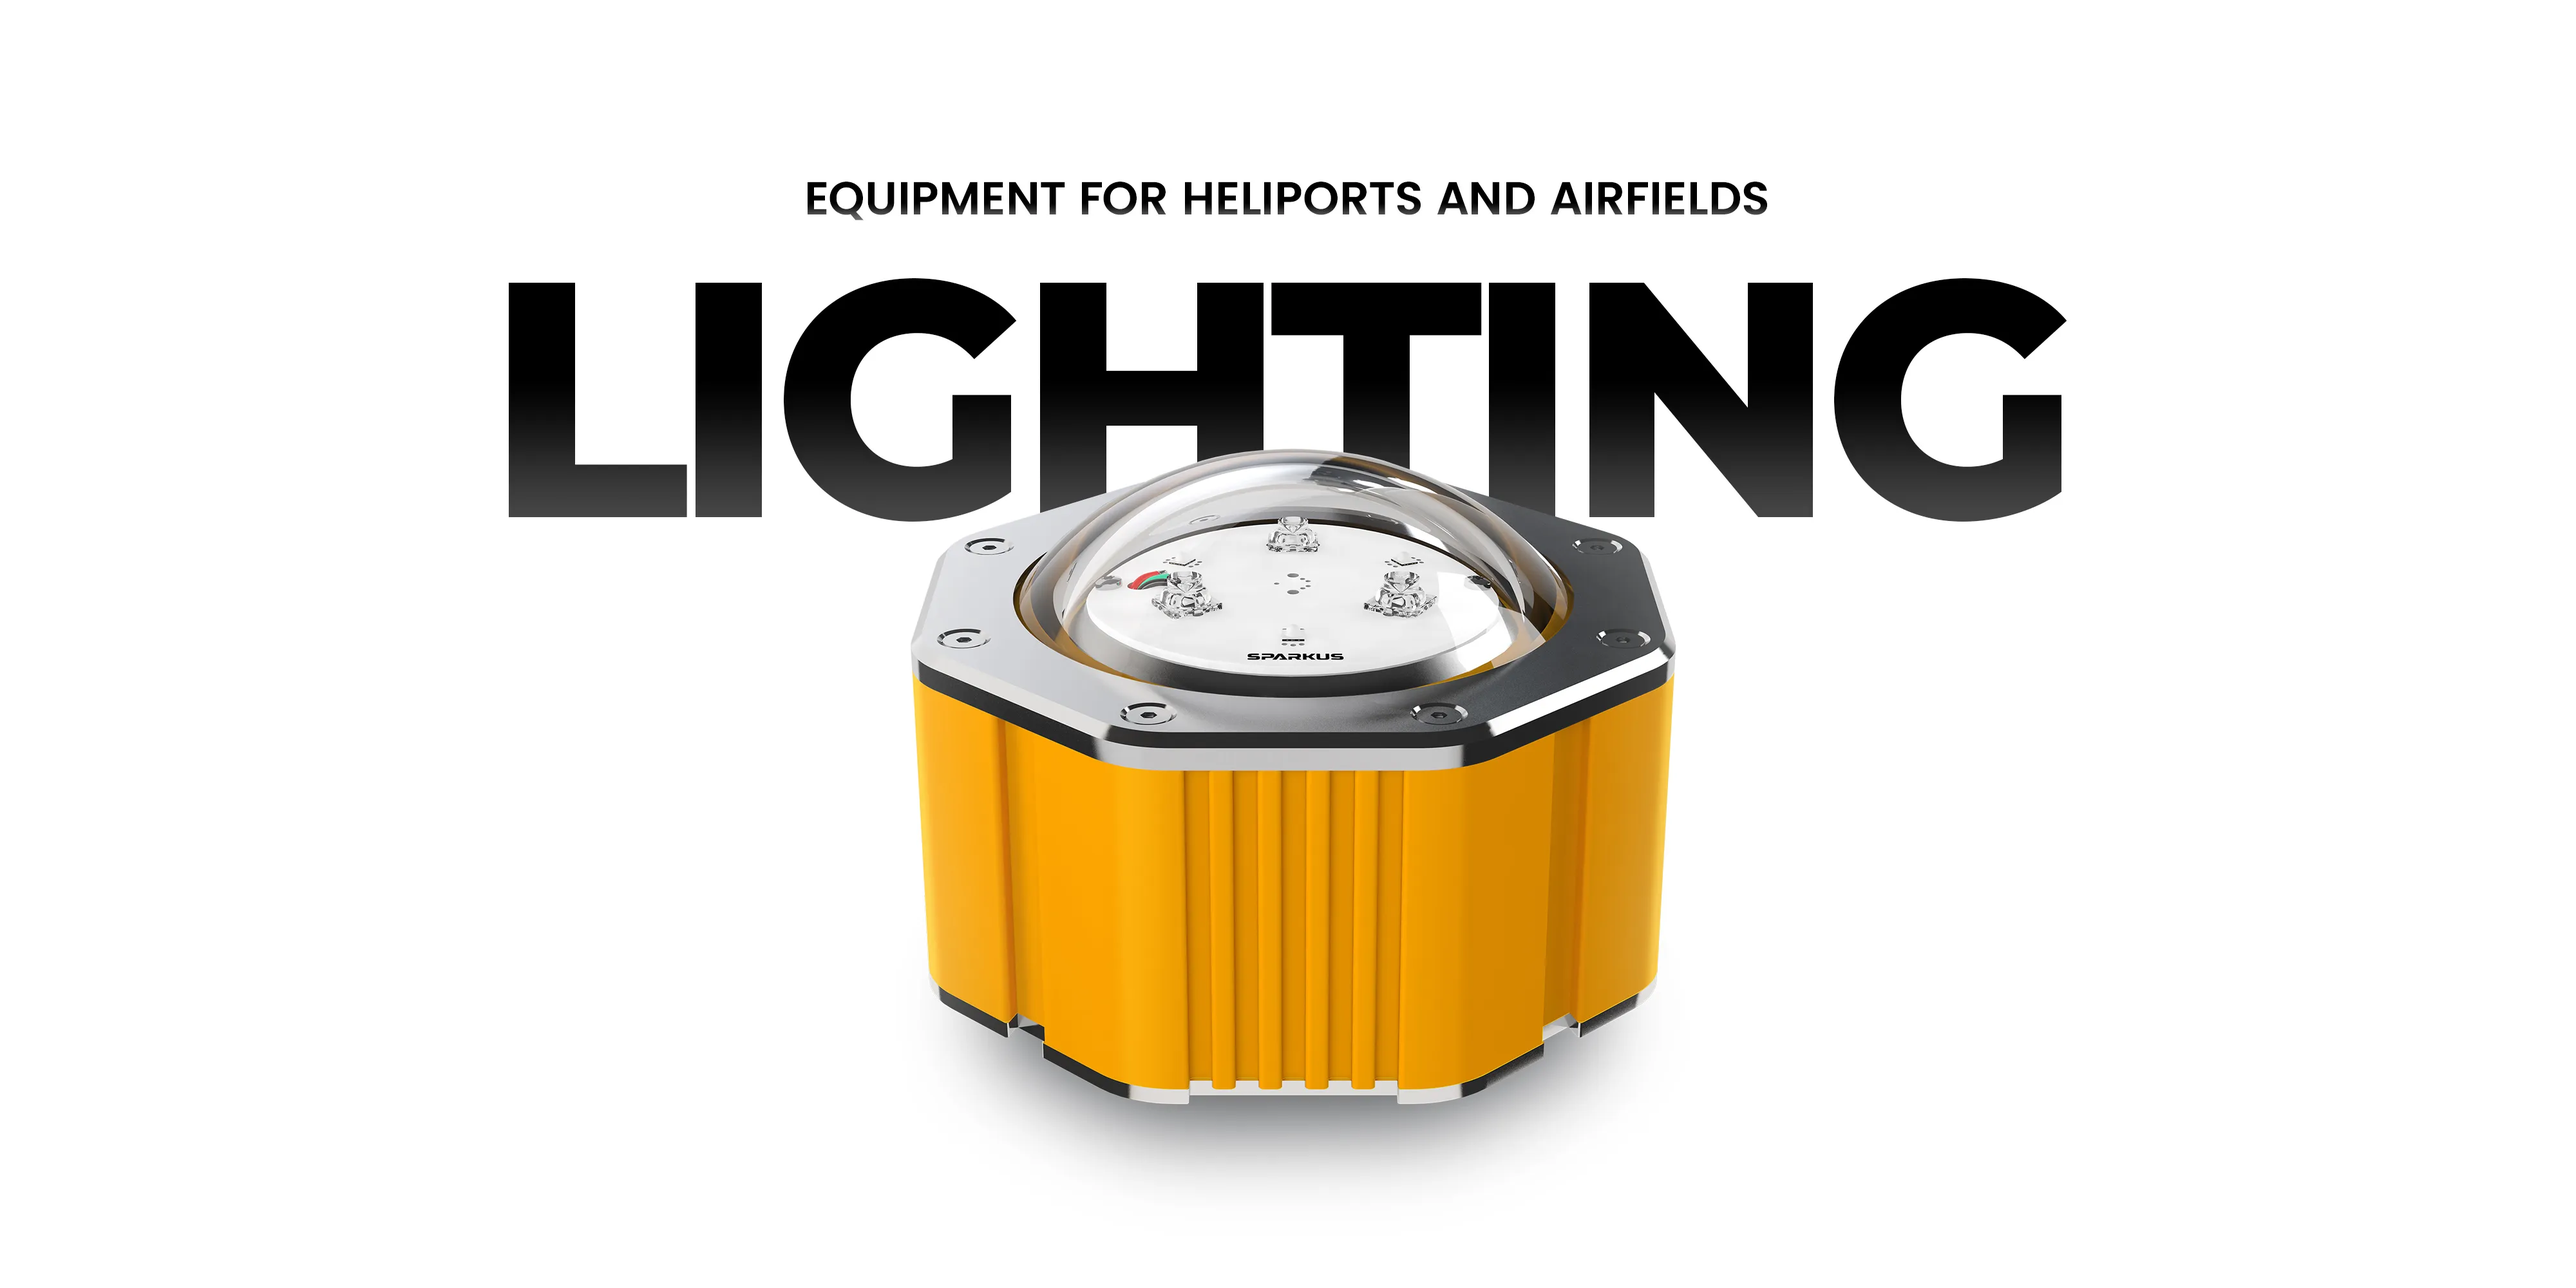
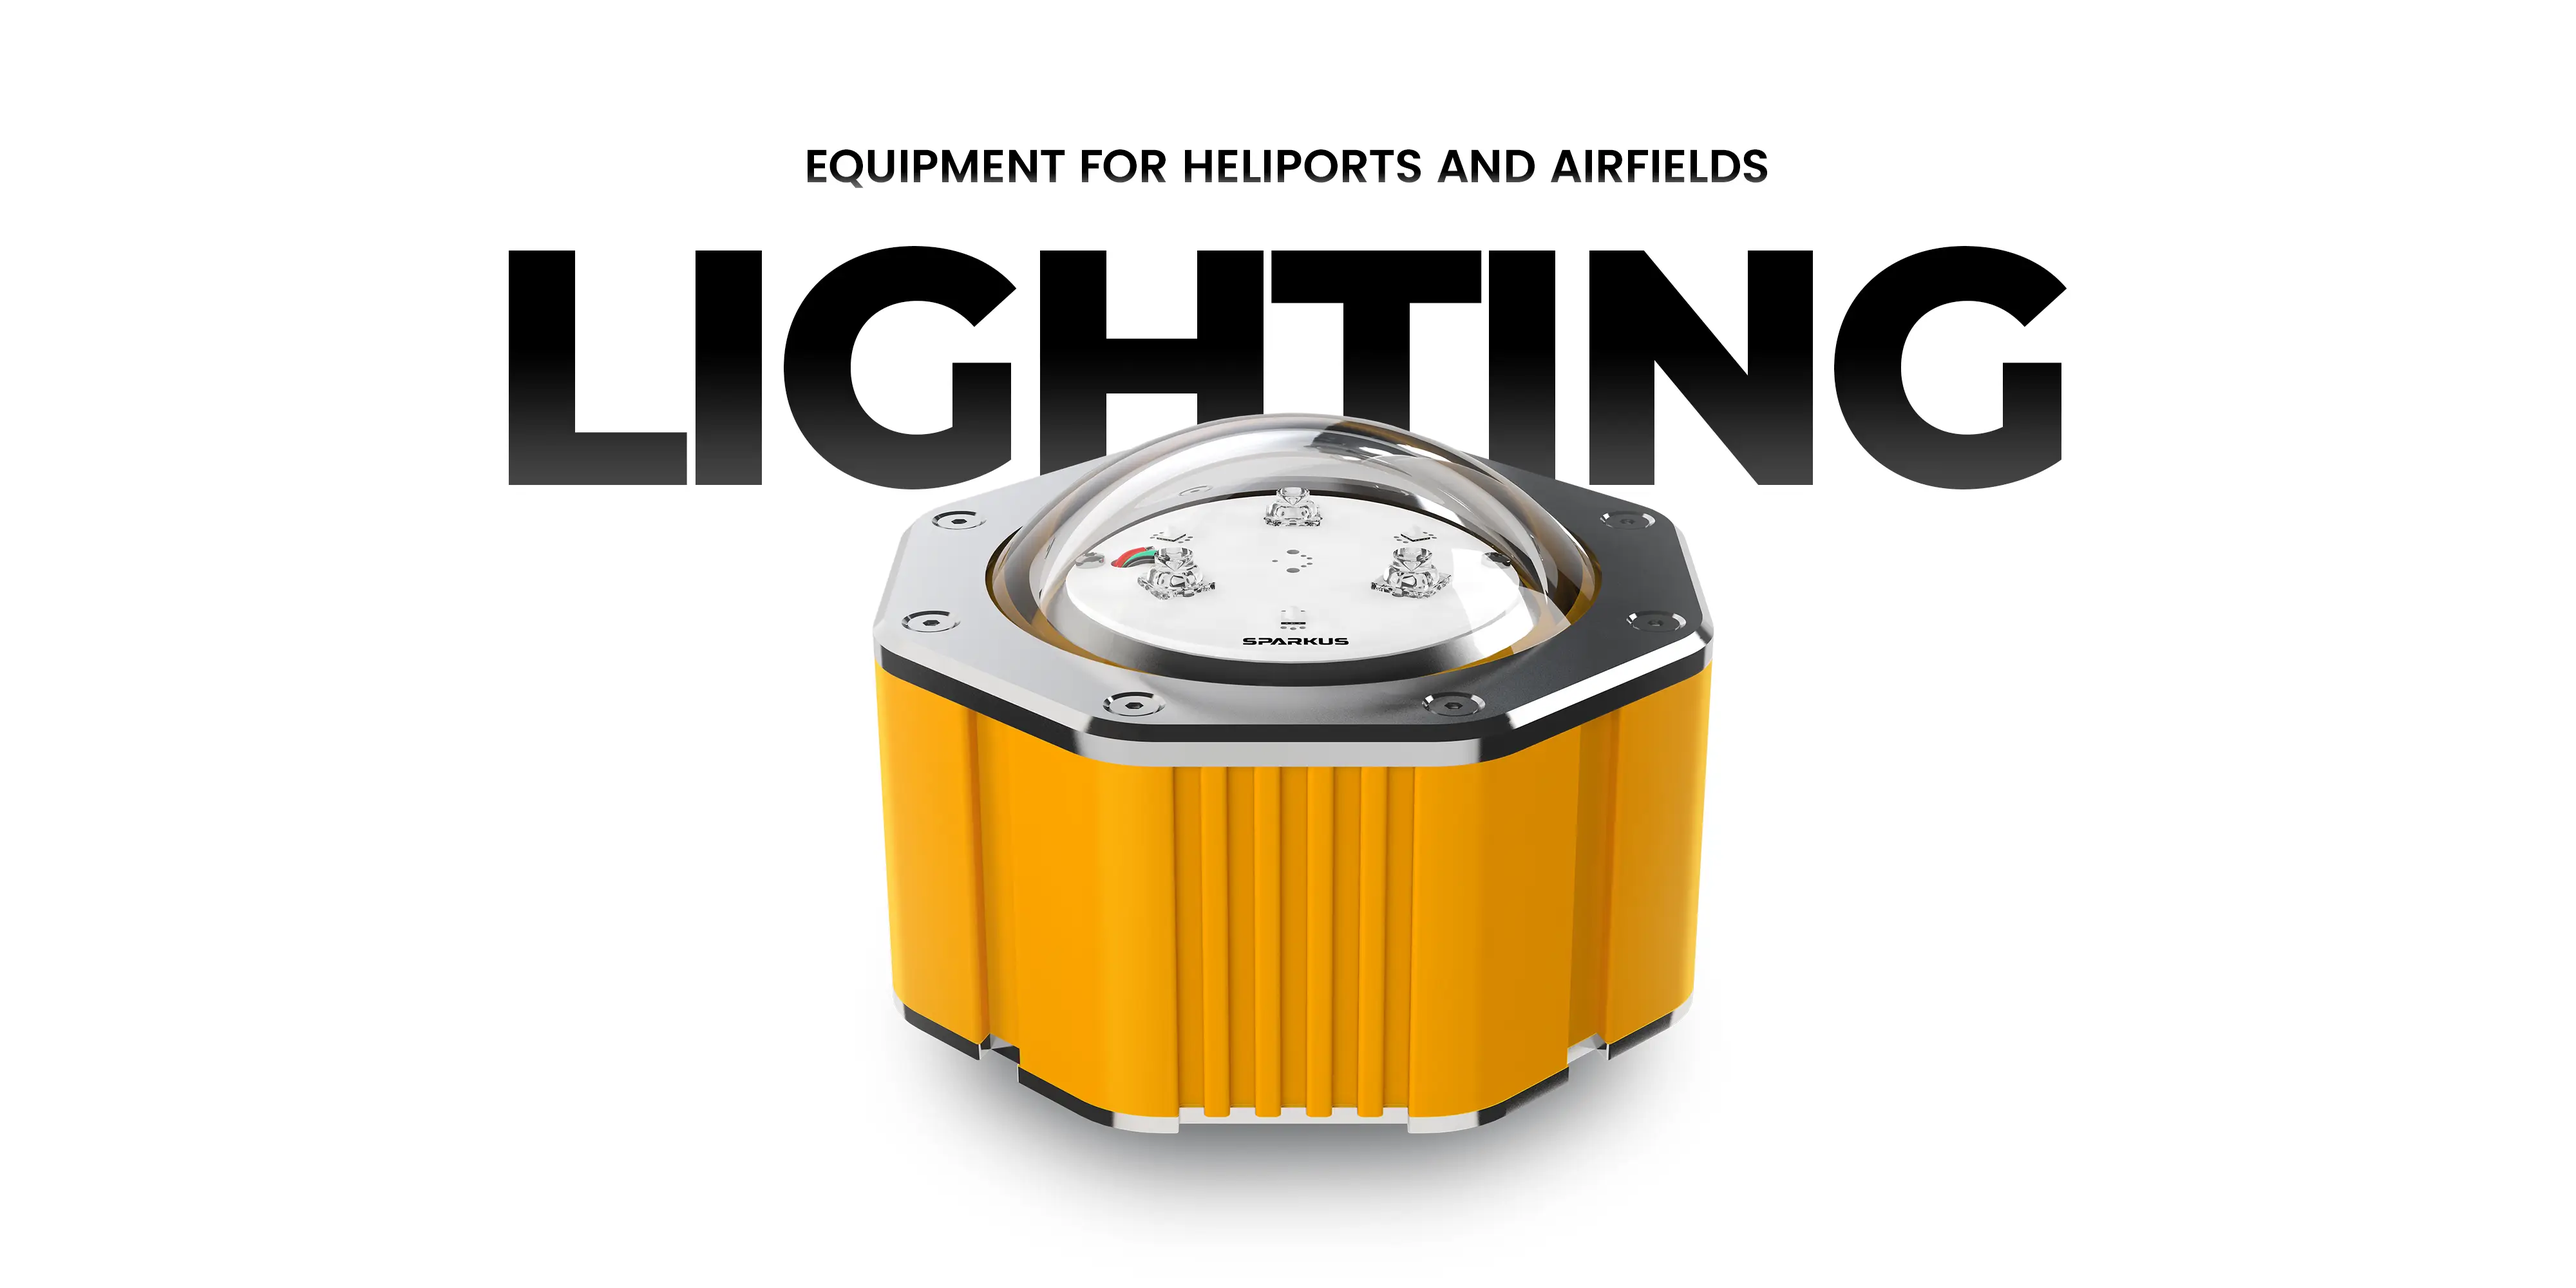
580 height

Changed region(s): [[0.1875, 0.093, 0.8125, 0.93]]

diff --git a/source/styles/cases.css b/source/styles/cases.css
@@ -142,7 +142,7 @@ p, .case h1, .case h2, .case h3 {
     background-size: 100% 64px, auto 100%;
     background-repeat: no-repeat, no-repeat;
     max-width: 100%;
-    height: 600px;
+    height: 580px;
     position: relative;
 }
 
